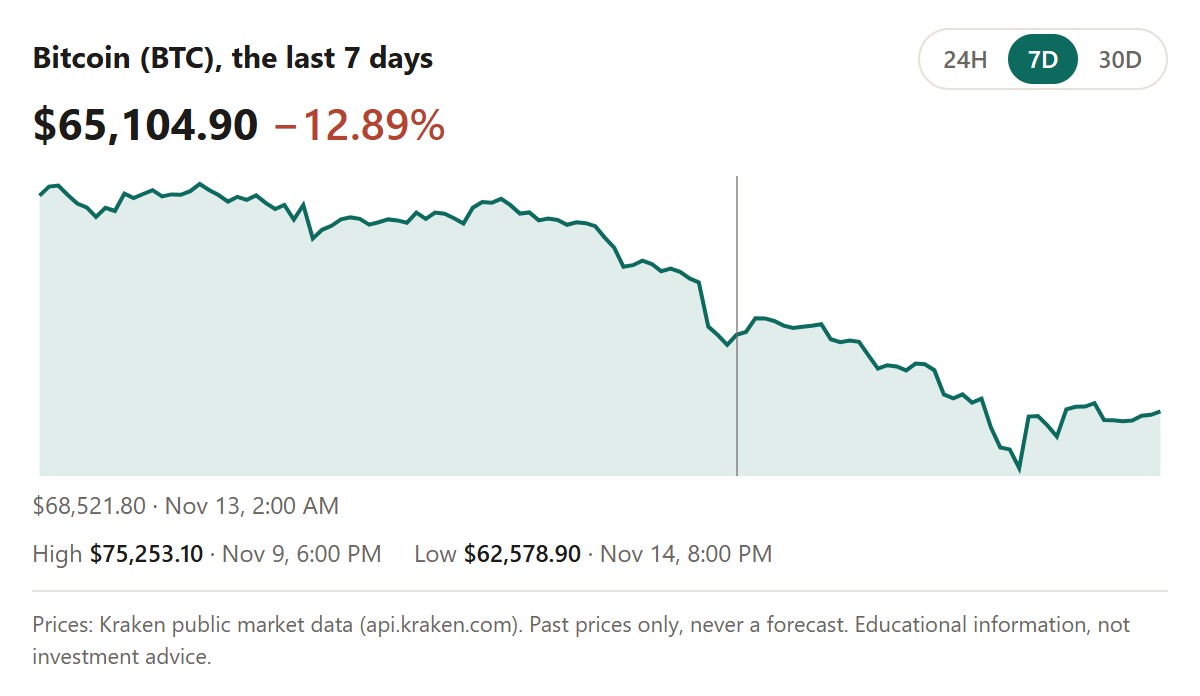
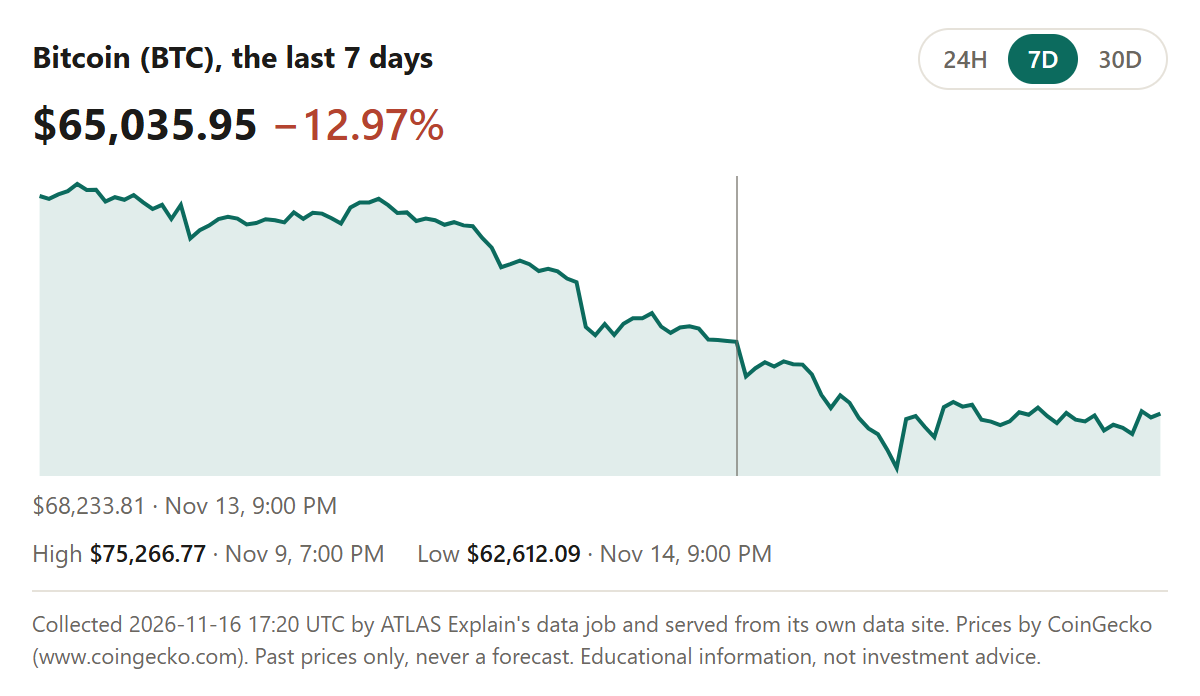
chore(directory): host the five carousel screenshots on the website

diff --git a/docs/CONNECTOR_SUBMISSION.md b/docs/CONNECTOR_SUBMISSION.md
@@ -39,18 +39,17 @@ Synced from the server: 7 read-only tools (`explain_term`, `browse_glossary`, `a
 - **Icon:** leave it at the default. The server serves its own favicon and icons from its own address (`/favicon.ico`, `/icon.png` 512×512, `/icon.svg`, generated from public/logo.svg by `node scripts/write-mcp-icons.mjs`), and announces the PNG and SVG in its MCP `icons`. `store/connector/icon-512.png` is the same image if the portal asks for an upload anyway.
 - **Slug** (permanent): `atlas-explain`
 
-### Carousel screenshots (MCP App)
+### Carousel screenshots (MCP Apps)
 
-Four 1200px-wide PNGs in `store/connector/`, cropped to the app response, made by `node store/src/capture-connector.mjs` from the live server with real data:
+Five 1200px-wide PNGs in `store/connector/`, cropped to the app response, made by `node store/src/capture-connector.mjs` from the live server with real data. The portal needs them served over https from our own domain, so the same files are published at `https://atlas-explain.web.app/directory/<file>` (copied into `public/directory/`; re-copy and redeploy hosting after re-running the script). Entered in the portal on 16 Nov 2026.
 
 | File | Prompt |
 |---|---|
 | chart-btc-7d.png | Show me Bitcoin's price over the last 7 days with ATLAS Explain. |
-| chart-eth-30d.png | How has Ethereum moved over the last 30 days? Use ATLAS Explain. |
+| crypto-board.png | What are the big crypto moves today? Use ATLAS Explain. |
+| yield-curve.png | Show me the US Treasury yield curve with ATLAS Explain. |
 | chart-sol-24h.png | Using ATLAS Explain, chart Solana over the last 24 hours. |
-| chart-xrp-7d.png | What did XRP do this week? Show it with ATLAS Explain. |
-
-Re-run the script just before submitting so the prices are current.
+| chart-eth-30d.png | How has Ethereum moved over the last 30 days? Use ATLAS Explain. |
 
 ## 4. Use cases
 
